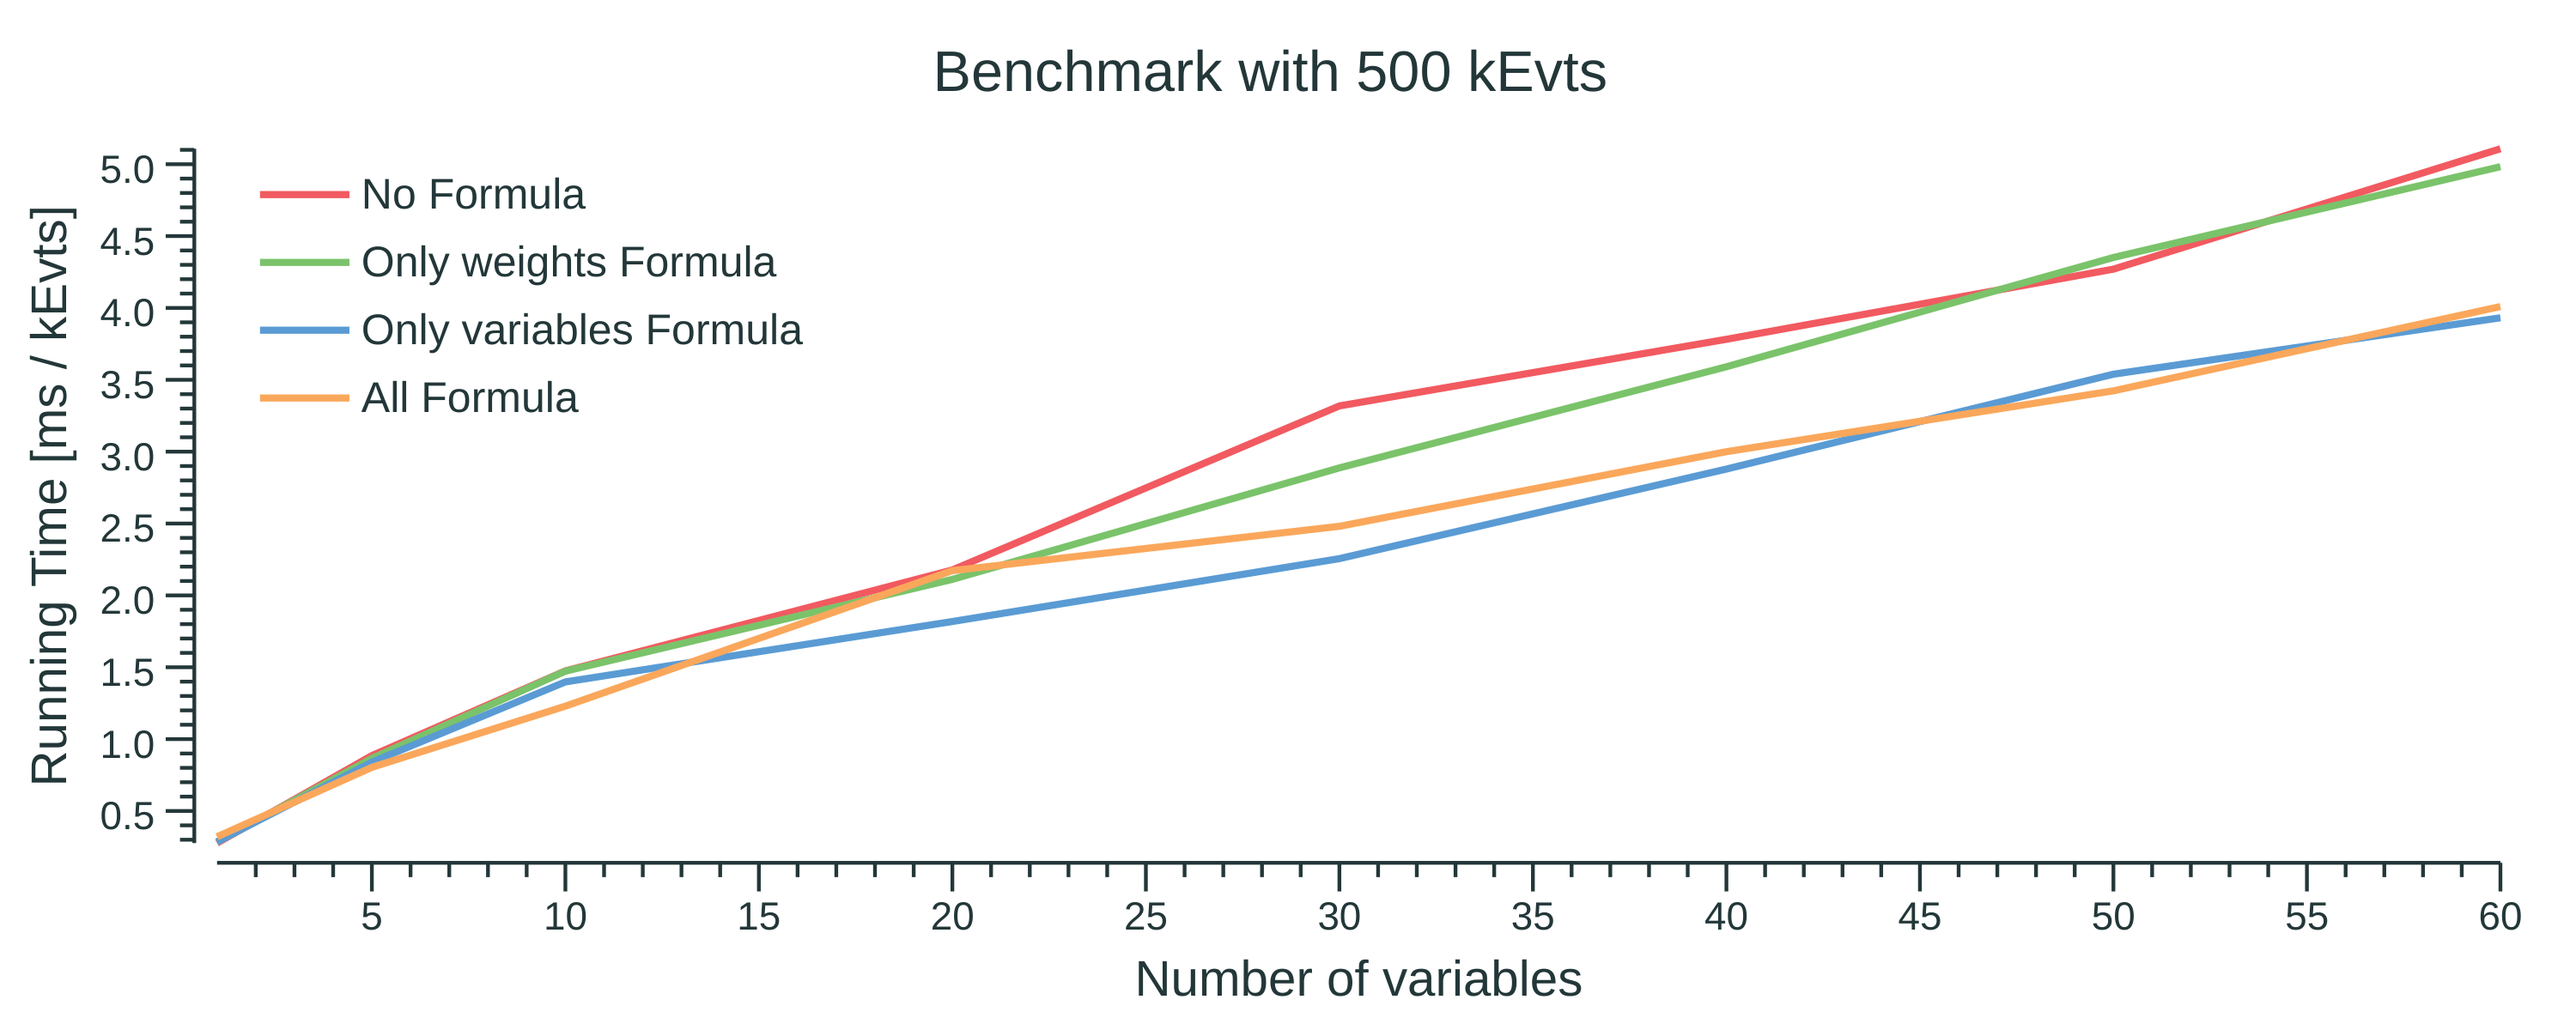
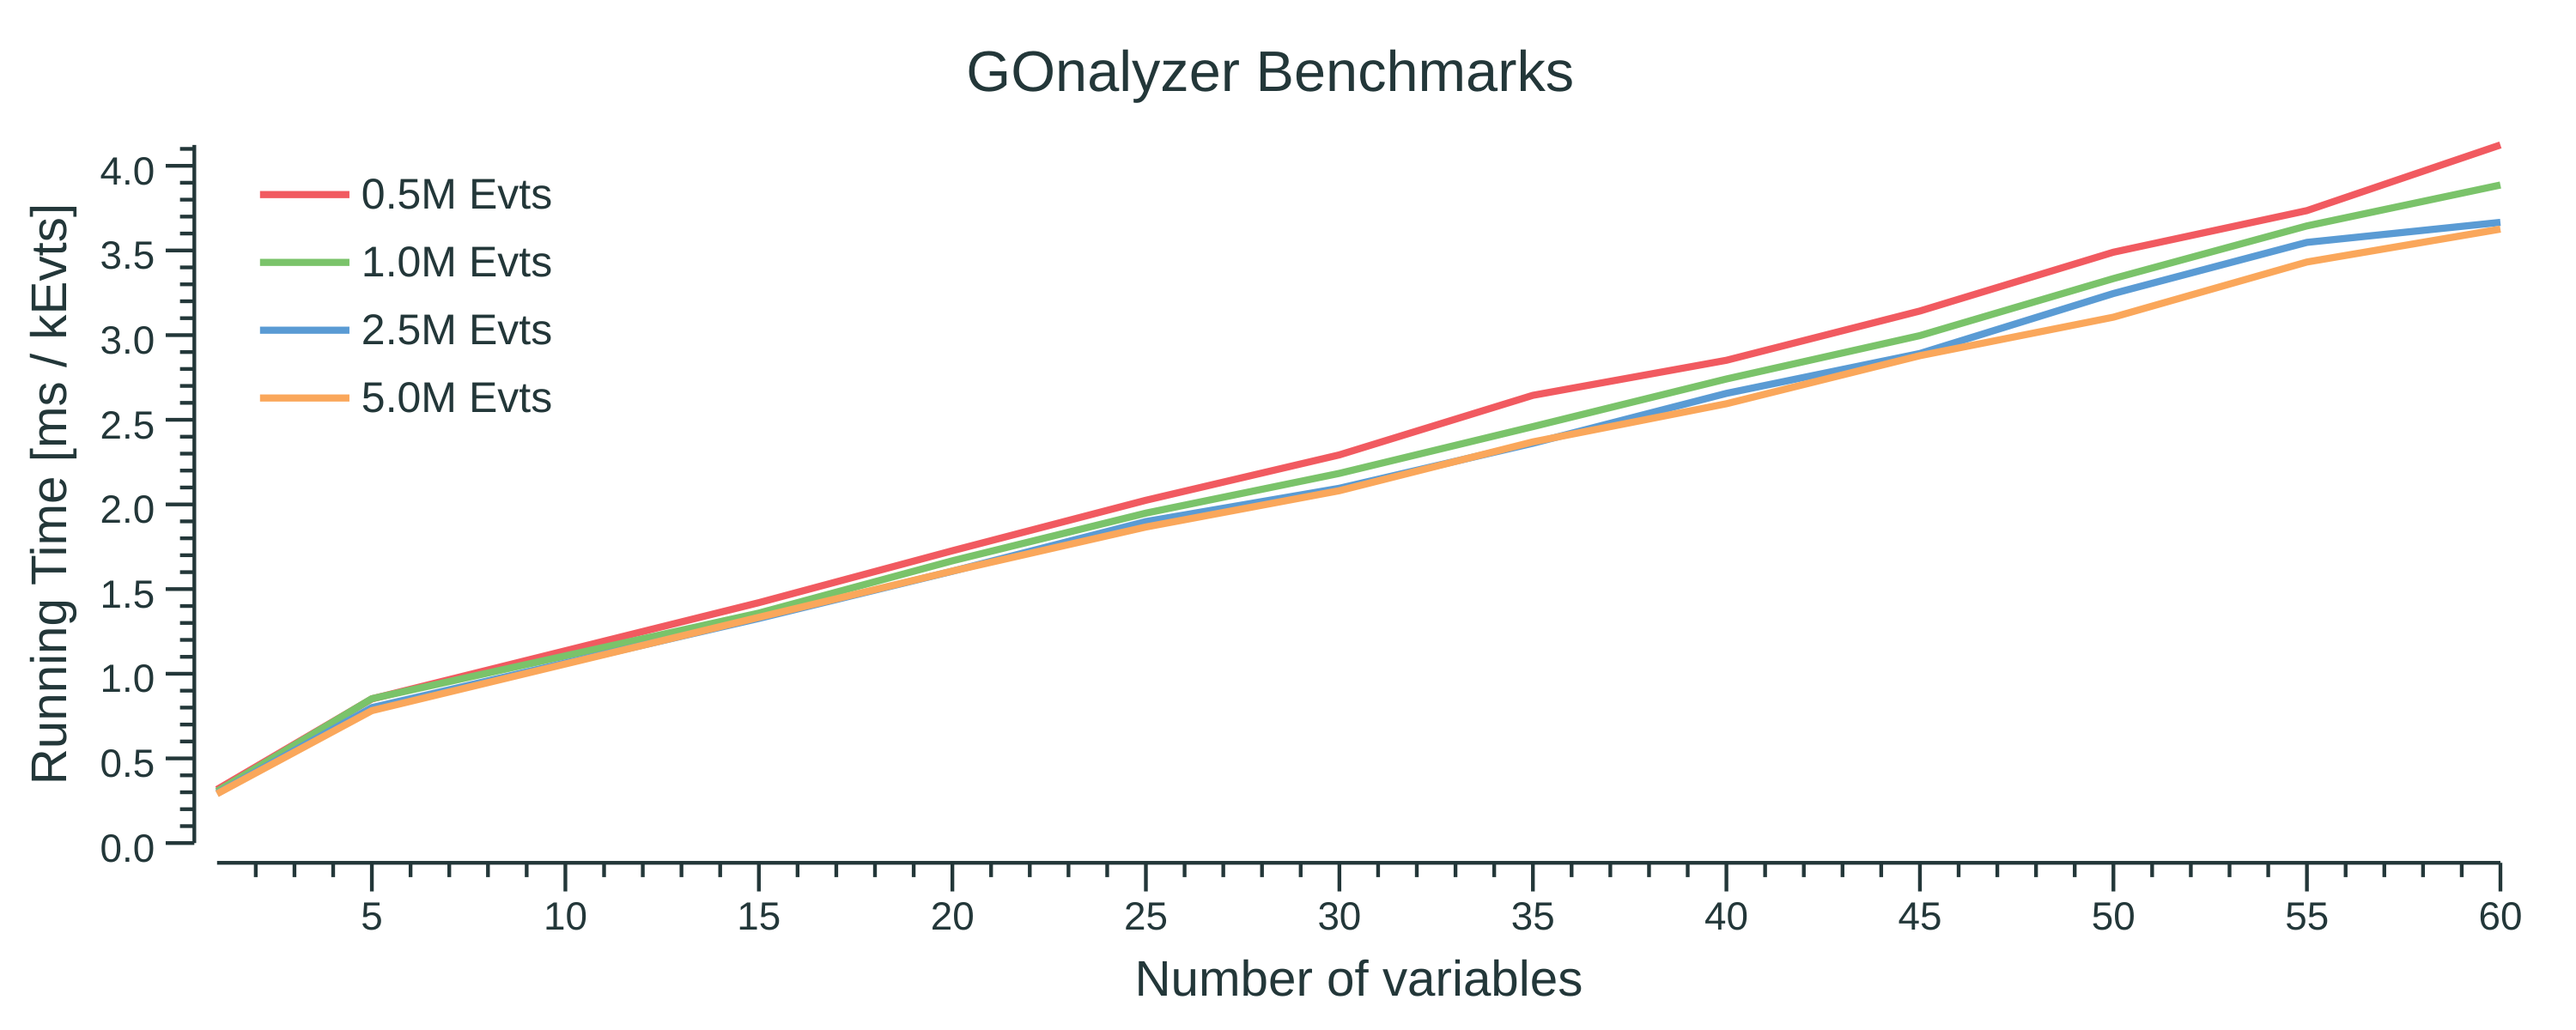
Update perf benchmark and plot

diff --git a/ana-perf/main.go b/ana-perf/main.go
@@ -19,48 +19,45 @@ import (
 // Run all the tests
 func main() {
 
-	// Number of kEvents
-	n10kEvtsPerSample := 10
-
 	// Scan the number of variables
-	nVars := []float64{1, 5, 10, 20, 30, 40, 50, 60}
+	nVars := []float64{1, 5, 15, 20, 25, 30, 35, 40, 45, 50, 55, 60}
 
+	// Scan number of events
+	nEvts1 := 10
+	nEvts2 := 20
+	nEvts3 := 50
+	nEvts4 := 100
+	
 	// Containers
-	tVarOFFCutWeightOFF := make([]float64, len(nVars))
-	tVarOFFCutWeightON := make([]float64, len(nVars))
-	tVarONCutWeightOFF := make([]float64, len(nVars))
-	tVarONCutWeightON := make([]float64, len(nVars))
+	t1 := make([]float64, len(nVars))
+	t2 := make([]float64, len(nVars))
+	t3 := make([]float64, len(nVars))
+	t4 := make([]float64, len(nVars))
 
 	// Run all test
 	for i, n := range nVars {
 		fmt.Println("Running for nVars =", n)
-		tVarOFFCutWeightOFF[i] = runTest(n10kEvtsPerSample, int(n), false, true)
-		tVarOFFCutWeightON[i] = runTest(n10kEvtsPerSample, int(n), false, false)
-		tVarONCutWeightOFF[i] = runTest(n10kEvtsPerSample, int(n), true, true)
-		tVarONCutWeightON[i] = runTest(n10kEvtsPerSample, int(n), true, true)
+		t1[i] = runTest(nEvts1, int(n))
+		t2[i] = runTest(nEvts2, int(n))
+		t3[i] = runTest(nEvts3, int(n))
+		t4[i] = runTest(nEvts4, int(n))
 	}
 
 	// Plot benchmarks
-	p := plotBenchmarks(tVarOFFCutWeightOFF, tVarOFFCutWeightON,
-		tVarONCutWeightOFF, tVarONCutWeightON, nVars,
-	)
-	p.Title.Text = fmt.Sprintf("Benchmark with %v kEvts", n10kEvtsPerSample*50)
-
-	f := hplot.Figure(p)
-	style.ApplyToFigure(f)
-	if err := hplot.Save(f, 10*vg.Inch, 4*vg.Inch, "perf.png"); err != nil {
-		log.Fatalf("error saving plot: %v\n", err)
-	}
+	plotBenchmarks(t1, t2, t3, t4, nVars)
+	
 }
 
-func plotBenchmarks(s1, s2, s3, s4, n []float64) *hplot.Plot {
+func plotBenchmarks(s1, s2, s3, s4, n []float64) {
 
 	// Plot
 	p := hplot.New()
 	style.ApplyToPlot(p)
+	p.Title.Text = "GOnalyzer Benchmarks"
 	p.X.Label.Text = "Number of variables"
 	p.Y.Label.Text = "Running Time [ms / kEvts]"
-
+	p.Y.Min = 0.0
+	
 	// Graph
 	g1 := hplot.NewS2D(hbook.NewS2DFrom(n, s1))
 	g2 := hplot.NewS2D(hbook.NewS2DFrom(n, s2))
@@ -74,10 +71,10 @@ func plotBenchmarks(s1, s2, s3, s4, n []float64) *hplot.Plot {
 	applyStyle(g4, 3)
 
 	// Add graph to the legend
-	p.Legend.Add(`No Formula`, g1)
-	p.Legend.Add(`Only weights Formula`, g2)
-	p.Legend.Add(`Only variables Formula`, g3)
-	p.Legend.Add(`All Formula`, g4)
+	p.Legend.Add(`0.5M Evts`, g1)
+	p.Legend.Add(`1.0M Evts`, g2)
+	p.Legend.Add(`2.5M Evts`, g3)
+	p.Legend.Add(`5.0M Evts`, g4)
 	p.Legend.Top = true
 	p.Legend.Left = true
 	p.Legend.XOffs = 12
@@ -89,7 +86,12 @@ func plotBenchmarks(s1, s2, s3, s4, n []float64) *hplot.Plot {
 	p.Add(g3)
 	p.Add(g4)
 
-	return p
+	// Figure
+	f := hplot.Figure(p)
+	style.ApplyToFigure(f)
+	if err := hplot.Save(f, 10*vg.Inch, 4*vg.Inch, "perf.png"); err != nil {
+		log.Fatalf("error saving plot: %v\n", err)
+	}
 }
 
 // Helper to set S2D style
@@ -100,8 +102,8 @@ func applyStyle(g *hplot.S2D, icolor int) {
 }
 
 // Run one test and returns the time in ms/kEvts
-func runTest(n10kEvtsPerSample, nVariables int, varFormula, noCutWeight bool) float64 {
-
+func runTest(n10kEvtsPerSample, nVariables int) float64 {
+	
 	// Data
 	splData := ana.NewSample("data", "data", `Pseudo-data`)
 	loadManyComponents(splData, n10kEvtsPerSample)
@@ -180,10 +182,6 @@ func runTest(n10kEvtsPerSample, nVariables int, varFormula, noCutWeight bool) fl
 		ana.WithHistoStack(true),
 	)
 
-	// Few handles for benchmarking
-	analyzer.WithVarsTreeFormula = varFormula
-	analyzer.NoTreeFormula = noCutWeight
-
 	// Run the analyzer and produce all plots
 	if err := analyzer.FillHistos(); err != nil {
 		log.Fatal("Cannot fill histos:", err)
@@ -204,18 +202,16 @@ var (
 	tname = "truth"
 
 	// Some TreeFunc: weights and cuts
-	w1   = ana.NewTreeFuncValF64(0.5)
-	w2   = ana.NewTreeFuncValF64(2.0)
-	isGG = ana.NewTreeFuncVarBool("init_gg")
-	isQQ = ana.NewTreeFuncVarBool("init_qq")
+	w1   = ana.NewValF64(0.5)
+	w2   = ana.NewValF64(2.0)
+	isGG = ana.NewVarBool("init_gg")
+	isQQ = ana.NewVarBool("init_qq")
 
 	// Variables
 	var_dphi = &ana.Variable{
 		Name:       "truth_dphi_ll",
 		SaveName:   "truth_dphi_ll",
-		TreeName:   "truth_dphi_ll",
-		Value:      new(float64),
-		TreeVar:    ana.NewTreeFuncVarF64("truth_dphi_ll"),
+		TreeFunc:    ana.NewVarF64("truth_dphi_ll"),
 		Nbins:      15,
 		Xmin:       0,
 		Xmax:       math.Pi,
@@ -229,9 +225,7 @@ var (
 	var_Ckk = &ana.Variable{
 		Name:       "truth_Ckk",
 		SaveName:   "truth_Ckk",
-		TreeName:   "truth_Ckk",
-		Value:      new(float64),
-		TreeVar:    ana.NewTreeFuncVarF64("truth_Ckk"),
+		TreeFunc:    ana.NewVarF64("truth_Ckk"),
 		Nbins:      25,
 		Xmin:       -1,
 		Xmax:       1,
@@ -246,9 +240,7 @@ var (
 	var_Crr = &ana.Variable{
 		Name:       "truth_Crr",
 		SaveName:   "truth_Crr",
-		TreeName:   "truth_Crr",
-		Value:      new(float64),
-		TreeVar:    ana.NewTreeFuncVarF64("truth_Crr"),
+		TreeFunc:    ana.NewVarF64("truth_Crr"),
 		Nbins:      25,
 		Xmin:       -1,
 		Xmax:       1,
@@ -263,9 +255,7 @@ var (
 	var_Cnn = &ana.Variable{
 		Name:       "truth_Cnn",
 		SaveName:   "truth_Cnn",
-		TreeName:   "truth_Cnn",
-		Value:      new(float64),
-		TreeVar:    ana.NewTreeFuncVarF64("truth_Cnn"),
+		TreeFunc:    ana.NewVarF64("truth_Cnn"),
 		Nbins:      25,
 		Xmin:       -1,
 		Xmax:       1,
@@ -280,9 +270,7 @@ var (
 	var_pt_lep = &ana.Variable{
 		Name:       "pt_lep",
 		SaveName:   "pt_lep",
-		TreeName:   "l_pt",
-		Value:      new(float32),
-		TreeVar:    ana.NewTreeFuncVarF32("l_pt"),
+		TreeFunc:    ana.NewVarF32("l_pt"),
 		Nbins:      25,
 		Xmin:       0,
 		Xmax:       500,
@@ -295,9 +283,7 @@ var (
 	var_eta_lep = &ana.Variable{
 		Name:       "eta_lep",
 		SaveName:   "eta_lep",
-		TreeName:   "l_eta",
-		Value:      new(float32),
-		TreeVar:    ana.NewTreeFuncVarF32("l_eta"),
+		TreeFunc:    ana.NewVarF32("l_eta"),
 		Nbins:      25,
 		Xmin:       -5,
 		Xmax:       5,
@@ -311,9 +297,7 @@ var (
 	var_pt_b = &ana.Variable{
 		Name:       "pt_b",
 		SaveName:   "pt_b",
-		TreeName:   "b_pt",
-		Value:      new(float32),
-		TreeVar:    ana.NewTreeFuncVarF32("b_pt"),
+		TreeFunc:    ana.NewVarF32("b_pt"),
 		Nbins:      25,
 		Xmin:       0,
 		Xmax:       500,
@@ -326,9 +310,7 @@ var (
 	var_eta_b = &ana.Variable{
 		Name:       "eta_b",
 		SaveName:   "eta_b",
-		TreeName:   "b_eta",
-		Value:      new(float32),
-		TreeVar:    ana.NewTreeFuncVarF32("b_eta"),
+		TreeFunc:    ana.NewVarF32("b_eta"),
 		Nbins:      25,
 		Xmin:       -5,
 		Xmax:       5,
@@ -342,9 +324,7 @@ var (
 	var_pt_vsum = &ana.Variable{
 		Name:        "vsum_pt",
 		SaveName:    "pt_vsum",
-		TreeName:    "vsum_pt",
-		Value:       new(float32),
-		TreeVar:     ana.NewTreeFuncVarF32("vsum_pt"),
+		TreeFunc:     ana.NewVarF32("vsum_pt"),
 		Nbins:       25,
 		Xmin:        0,
 		Xmax:        250,
@@ -358,9 +338,7 @@ var (
 	var_pt_t = &ana.Variable{
 		Name:     "t_pt",
 		SaveName: "pt_t",
-		TreeName: "t_pt",
-		Value:    new(float32),
-		TreeVar:  ana.NewTreeFuncVarF32("t_pt"),
+		TreeFunc:  ana.NewVarF32("t_pt"),
 		Nbins:    100,
 		Xmin:     0,
 		Xmax:     500,
@@ -375,9 +353,7 @@ var (
 	var_eta_t = &ana.Variable{
 		Name:       "eta_t",
 		SaveName:   "eta_t",
-		TreeName:   "t_eta",
-		Value:      new(float32),
-		TreeVar:    ana.NewTreeFuncVarF32("t_eta"),
+		TreeFunc:    ana.NewVarF32("t_eta"),
 		Nbins:      25,
 		Xmin:       -5,
 		Xmax:       5,
@@ -392,9 +368,7 @@ var (
 	var_m_tt = &ana.Variable{
 		Name:       "m_tt",
 		SaveName:   "m_tt",
-		TreeName:   "ttbar_m",
-		Value:      new(float32),
-		TreeVar:    ana.NewTreeFuncVarF32("ttbar_m"),
+		TreeFunc:    ana.NewVarF32("ttbar_m"),
 		Nbins:      25,
 		Xmin:       300,
 		Xmax:       1500,
@@ -407,9 +381,7 @@ var (
 	var_pt_tt = &ana.Variable{
 		Name:       "pt_tt",
 		SaveName:   "pt_tt",
-		TreeName:   "ttbar_pt",
-		Value:      new(float32),
-		TreeVar:    ana.NewTreeFuncVarF32("ttbar_pt"),
+		TreeFunc:    ana.NewVarF32("ttbar_pt"),
 		Nbins:      25,
 		Xmin:       0,
 		Xmax:       150,
@@ -420,10 +392,8 @@ var (
 	}
 
 	var_x1 = &ana.Variable{
-		TreeName: "init_x1",
-		Value:    new(float32),
 		SaveName: "init_x1",
-		TreeVar:  ana.NewTreeFuncVarF32("init_x1"),
+		TreeFunc:  ana.NewVarF32("init_x1"),
 		Nbins:    25,
 		Xmin:     0,
 		Xmax:     1,
@@ -431,7 +401,7 @@ var (
 
 	var_x1x2 = &ana.Variable{
 		SaveName: "x1x2",
-		TreeVar: ana.TreeFunc{
+		TreeFunc: ana.TreeFunc{
 			VarsName: []string{"init_x1", "init_x2"},
 			Fct: func(x1, x2 float32) float64 {
 				return float64(x1 * x2)
